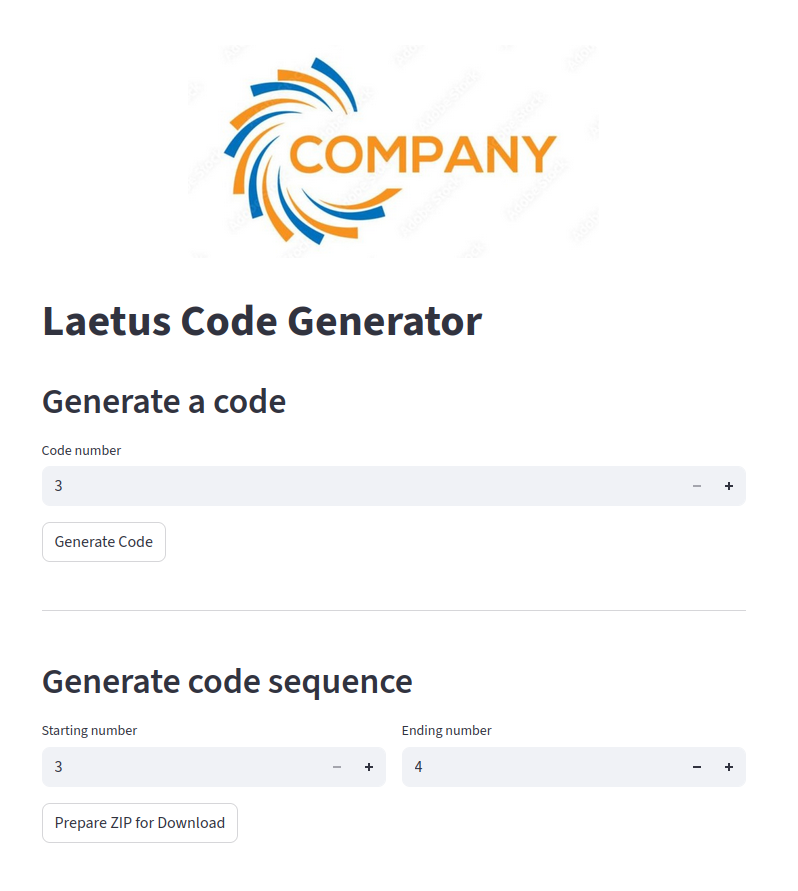
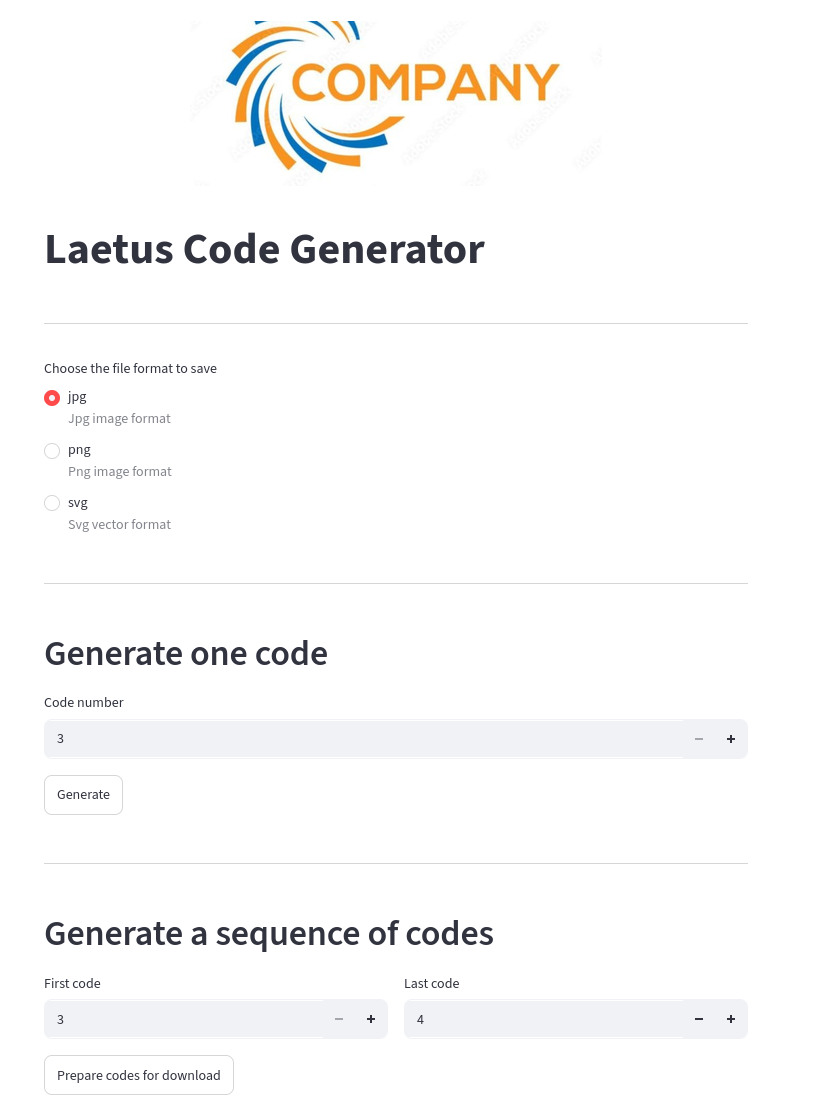
README updated

diff --git a/README.md b/README.md
@@ -115,6 +115,10 @@ Open your browser:
 http://localhost:8503
 ```
 
+## 👀 Preview
+
+![App Screenshot](assets/screen-shot.png)
+
 ---
 
 ## Usage